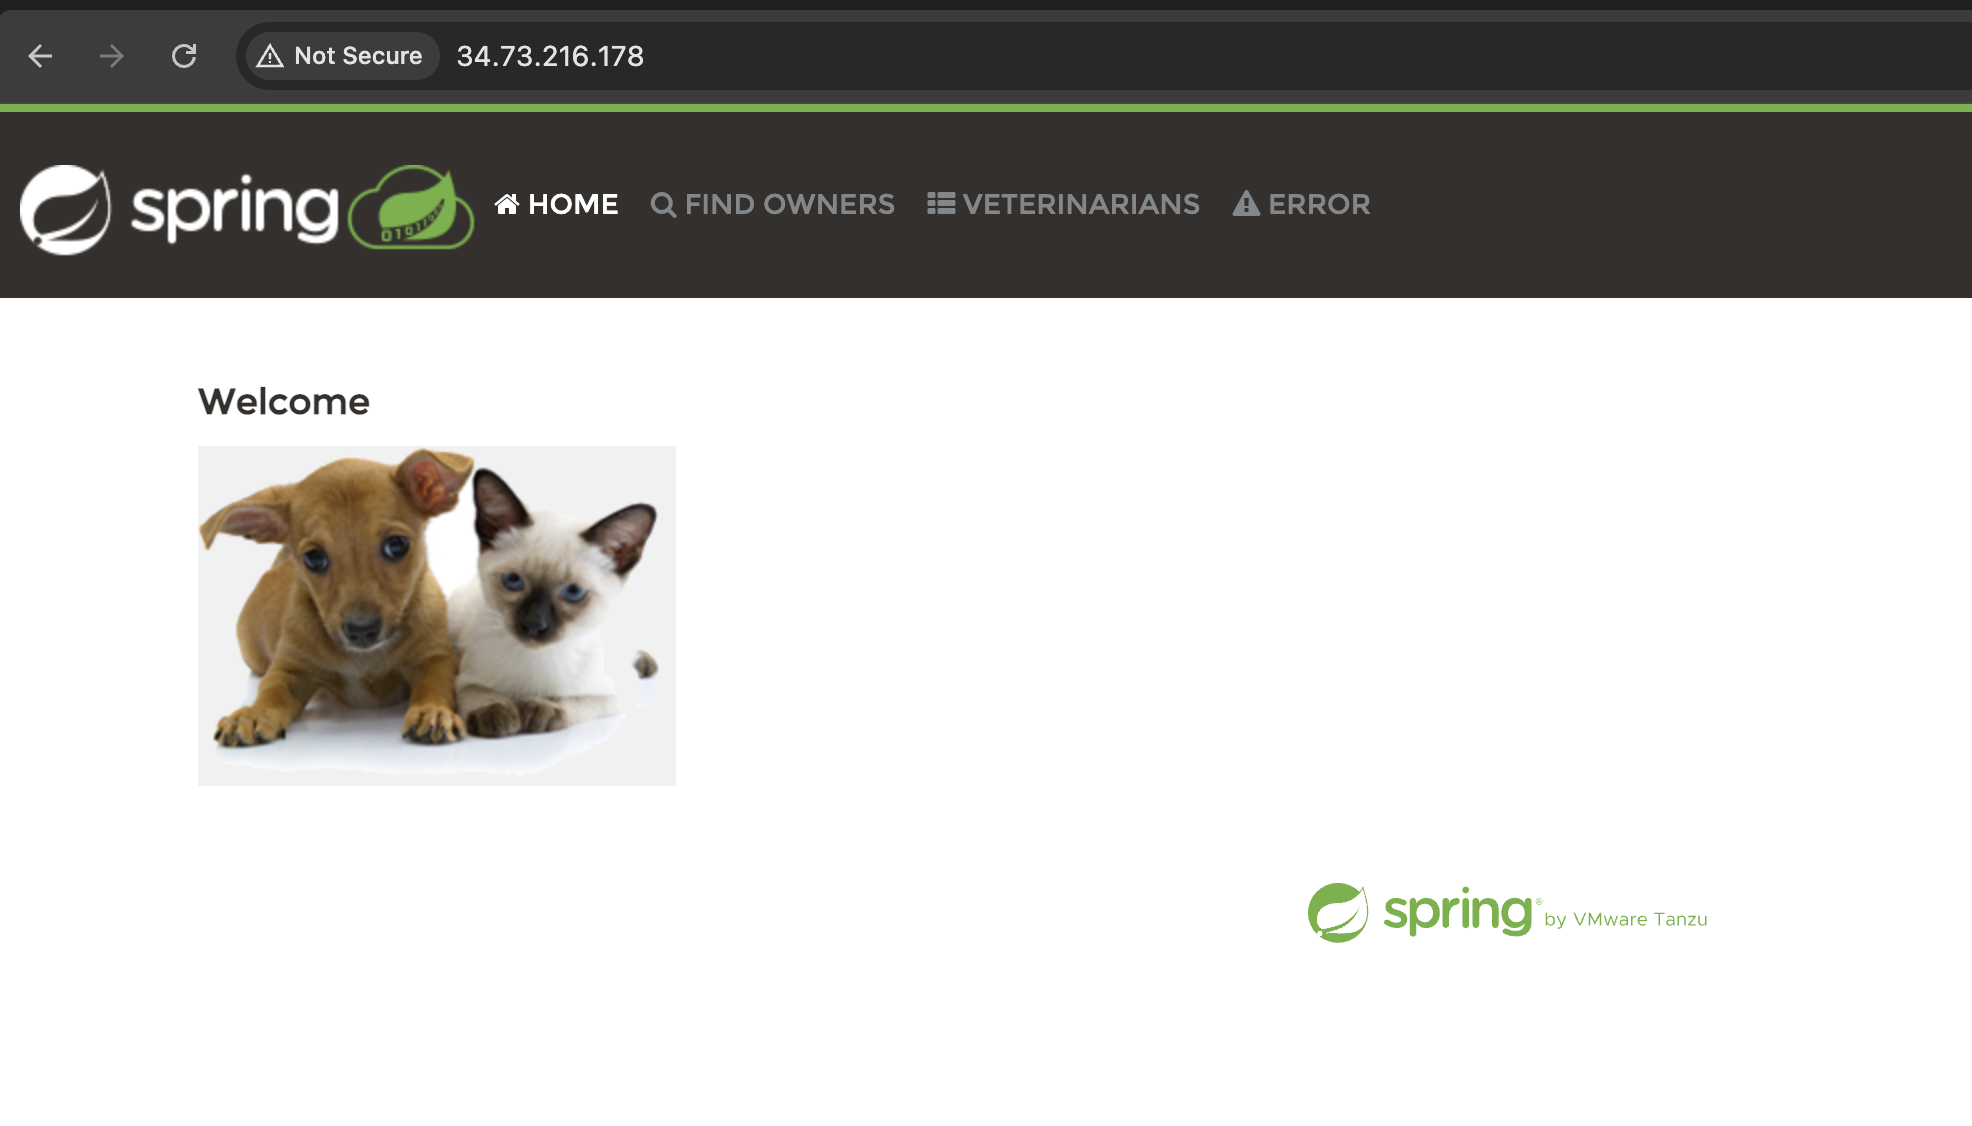
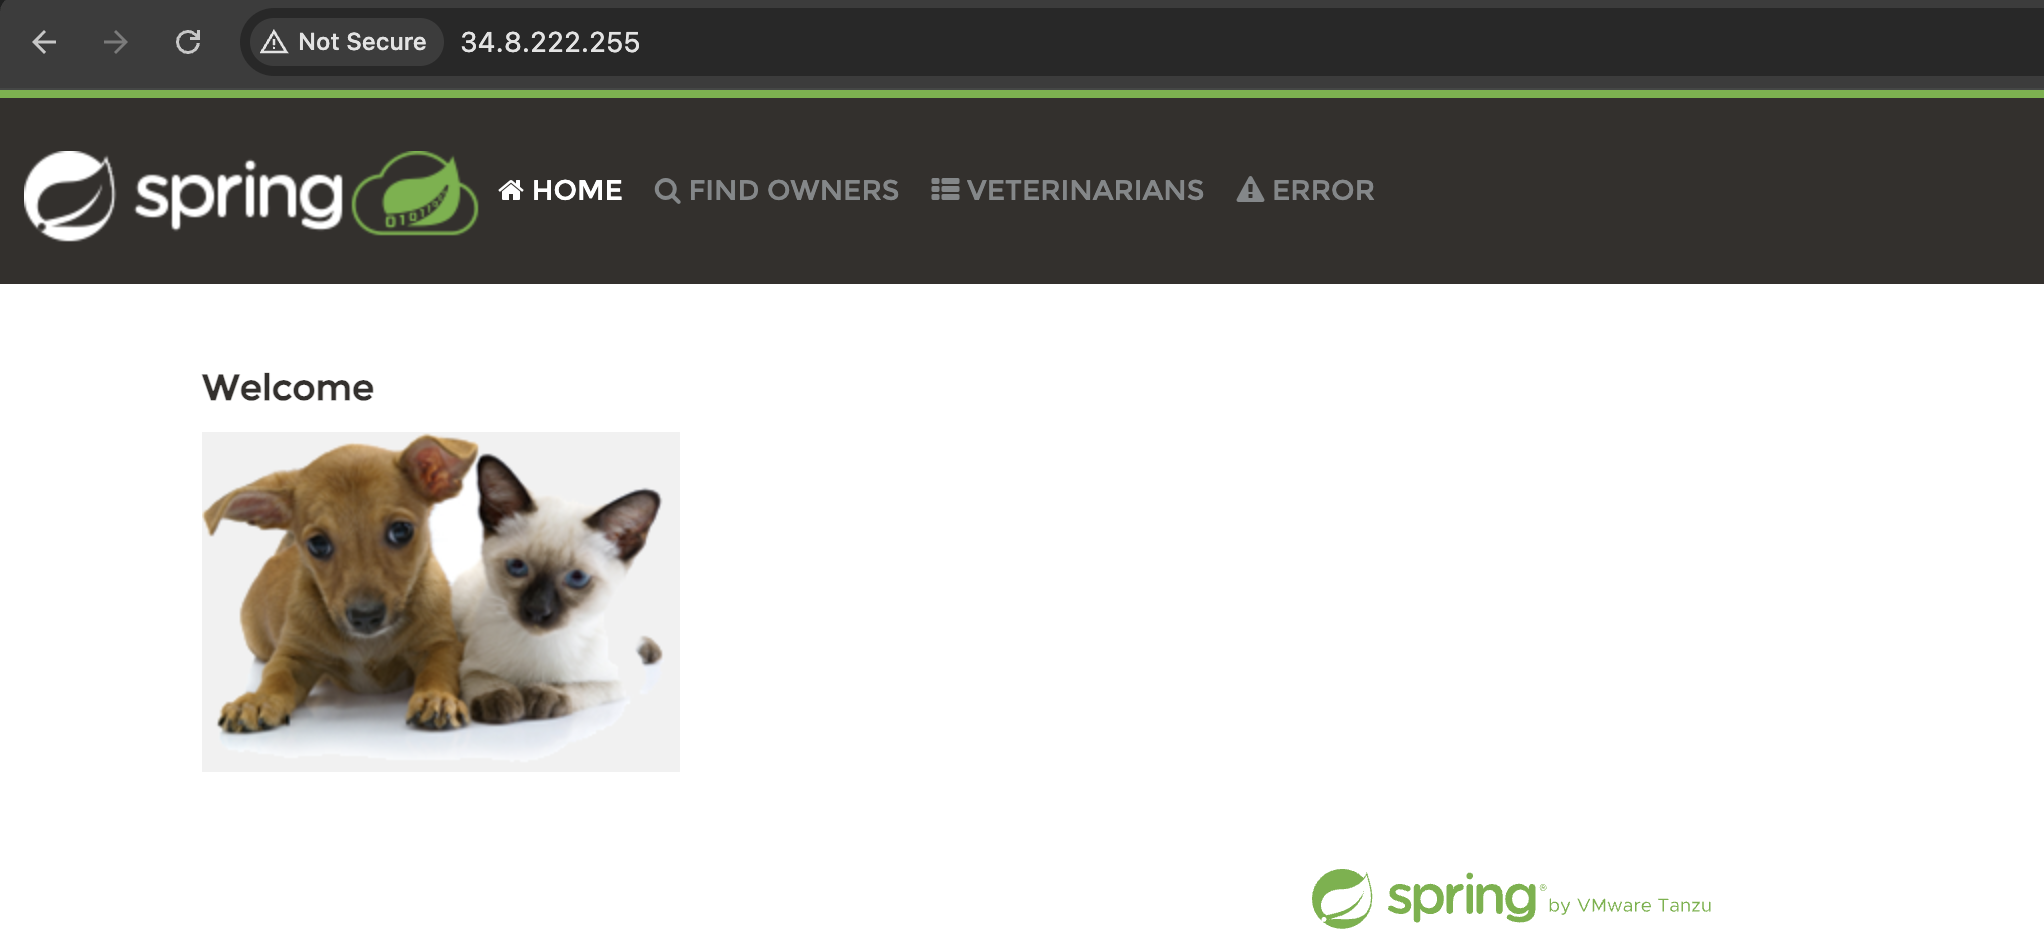
added k8s task

diff --git a/k8s/README.md b/k8s/README.md
@@ -16,49 +16,51 @@ Optional:<br/>
 
 ## Steps
 
-Go to the GCP console and open the Cloud Shell
-
-Set the project just in case
+At first we need to create GKE cluster in gcp using terraform
 ```
-gcloud config set project gd-gcp-internship-devops
+Clone this project git clone -b k8s git@github.com:nlopatin-gd/mavoyan-internship.git
 ```
-Create cluster
+Go to desired directory
 ```
-gcloud container clusters create-auto mavoyan-petclinic-cluster \
-    --location=us-east1
+cd k8s cd k8s/terraform/
 ```
-After creating your cluster, you need to get authentication credentials to interact with the cluster:
-
+Apply infrastructure
 ```
-gcloud container clusters get-credentials mavoyan-petclinic-cluster \
+terraform init
+terraform validate
+terraform plan
+terraform apply
+```
+Get credentials in your terminal
+```
+gcloud container clusters get-credentials mavoyan-cluster \
     --location us-east1
 ```
-Create deployment with image on GAR
+Cd to directory with yaml files
 ```
-kubectl create deployment mavoyan-petclinic \
-    --image=us-east1-docker.pkg.dev/gd-gcp-internship-devops/mavoyan-springrepo/spring-app:latest
+cd ..
 ```
-Exose with Load LoadBalancer
+Create namespace for our resources
 ```
-kubectl expose deployment mavoyan-petclinic \
-    --type LoadBalancer \
-    --port 80 \
-    --target-port 8080
+kubectl create namespace mavoyan-namespace
 ```
-Wait till Exteral IP will apear and get it with this command
+Apply yaml files (Note: first one should be secret.yaml)
 ```
-kubectl get service mavoyan-petclinic
+kubectl apply -f secret.yaml
+kubectl apply -f dbdeployment.yaml
+kubectl apply -f dbservice.yaml
+kubectl apply -f appdeployment.yaml
+kubectl apply -f appservice.yaml
+kubectl apply -f appingress.yaml
 ```
-![screenshot](../screenshots/k8s/exip.png)
-Result:
+To see our resources use this command
+```
+kubectl get all -n mavoyan-namespace 
+```
+Then we can get the IP address from here
+```
+kubectl get ingress -n mavoyan-namespace
+```
+![screenshot](../screenshots/k8s/ingress.png)
+And open in browser
 ![screenshot](../screenshots/k8s/result.png)
-
-To delete service:
-```
-kubectl delete service mavoyan-petclinic
-```
-To delete the cluster:
-```
-gcloud container clusters delete mavoyan-petclinic-cluster \
-    --location us-east1
-```
